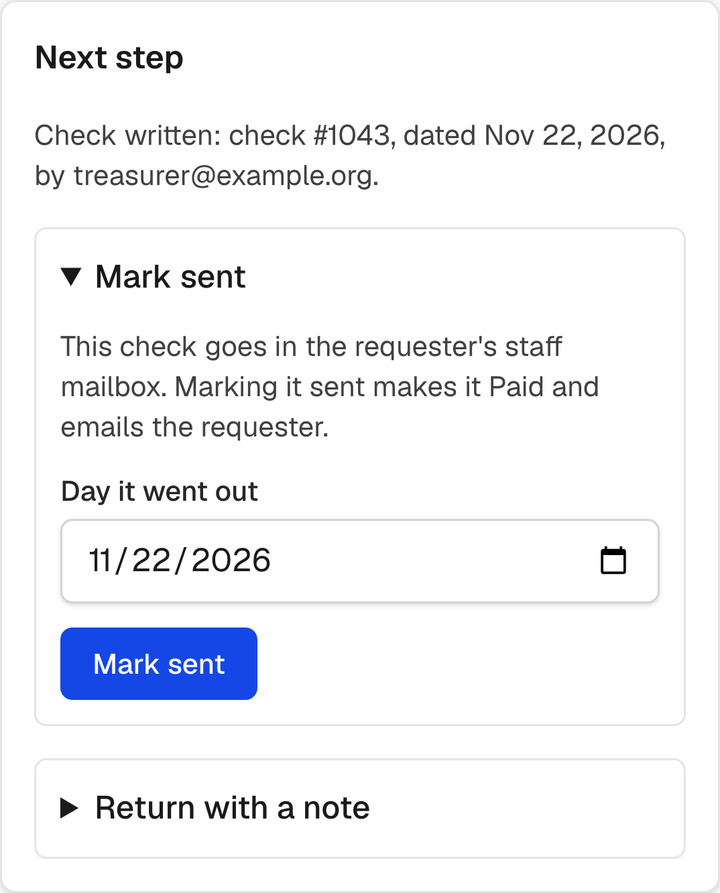
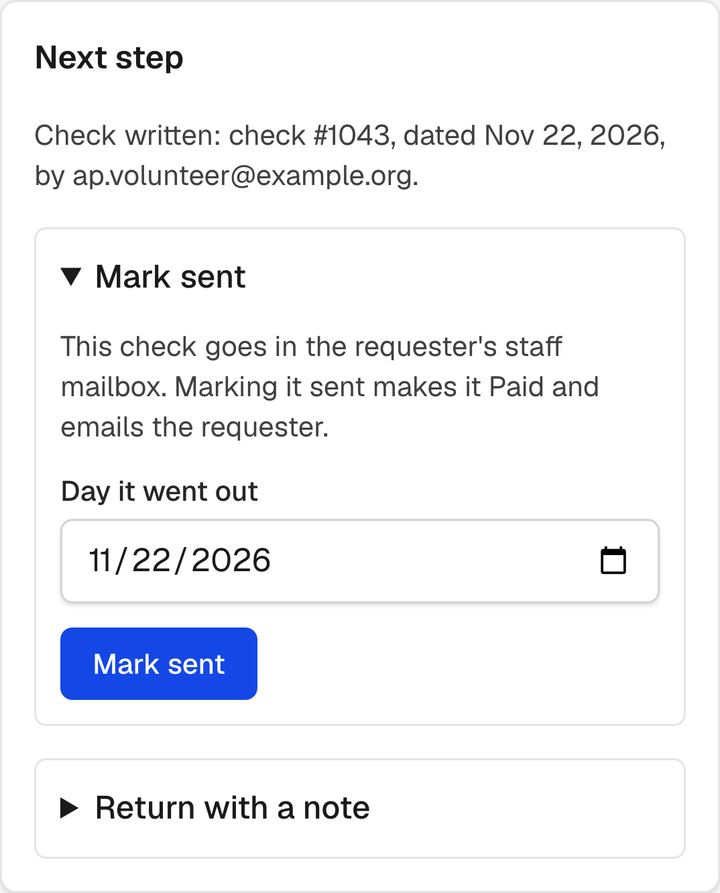
docs: address the no-context review of the AP guide
- Mark sent for a pickup check once it's signed by both and ready, as
  the Paid email ("ready for pickup… reply to arrange") already says;
  the Record form's box and the Mark sent reminder say so too.
- The filters paragraph says to tap Show, names Fiscal year, and that
  Show paid requests too works on With AP; Awaiting signature is under
  Status.
- The PDF to pay from is under Files; earlier versions aren't checked.
- The Sheet-editing answer says what never to change.
- The bill pay section stays when MAILED_CHECKS is off: requests on
  their way still reach AP. The README says how the guides read config.
- "If it hasn't been paid yet, the PTA can send it back"; Payment set
  up is shown as well as Check written, with nothing left to sign.
- Smaller wording fixes: the mailed warning's other cause, Returned
  requests on the list, "Paid today", older requests asked for anew,
  Notes on the page, and History keeping a corrected check number.
- The screenshot script: apShots below shotUntil, an accurate header,
  sign-in waits for a page a signed-in user lands on, and a neutral
  sample AP member (ap.volunteer@example.org) in the examples.

Changed region(s): [[0.0917, 0.1814, 0.5806, 0.2116]]

diff --git a/src/app/help/ap/page.tsx b/src/app/help/ap/page.tsx
@@ -13,8 +13,14 @@ const title = "Paying reimbursements: a guide for the accounts payable team";
 
 export const metadata: Metadata = { title };
 
-/** Whether any mailed checks can reach AP: the check signers and bill pay accounts are set, and mailing isn't switched off. */
-const mailingSetUp = () => config.mailedChecks !== "off" && config.checkSigners.length >= 2 && config.billPayAccounts.length > 0;
+/**
+ * Whether mailed checks can reach AP: the check signers and bill pay accounts
+ * are set. Unlike the requesters' guides (`mailingInGuides`, which wait until
+ * mailing is offered to everyone), this covers the pilot too, and stays on
+ * when MAILED_CHECKS is off, since requests already on their way still reach
+ * AP and still need paying.
+ */
+const mailingSetUp = () => config.checkSigners.length >= 2 && config.billPayAccounts.length > 0;
 
 export default function ApGuidePage() {
   const ap = <MailtoLink email={config.apEmail} />;
@@ -42,21 +48,23 @@ export default function ApGuidePage() {
       <Section title="The list">
         <p>
           It shows what&apos;s with you: every request that isn&apos;t paid yet and isn&apos;t still waiting for its event chair or the check signers. The one
-          that&apos;s waited longest is at the top. Its age counts from when it reached you, when it was sent back, or when its check was written.
+          that&apos;s waited longest is at the top. Its age counts from when it reached you, when it was sent back, or when its check was written. Requests
+          sent back, by you or by a chair or check signer, stay on the list while they wait for the requester.
         </p>
         <Shot src={dashboard} alt="The AP dashboard: filters at the top, then a list of requests, oldest first, each with its amount, status and age" />
         <p>
-          Pick a <strong>Status</strong> or a school year, or search by name, email, what it was for, or request number (like FY27-042). Tick{" "}
-          <strong>Show paid requests too</strong> to include those. <strong>Awaiting signature</strong> lists the checks you&apos;ve written that are waiting for
-          their second signature: the second signer&apos;s to-do list. The link above the list goes straight to it.
+          The list starts on <strong>With AP</strong>. To see something else, pick a <strong>Status</strong> or a <strong>Fiscal year</strong>, or search by
+          name, email, what it was for, or request number (like FY27-042), then tap <strong>Show</strong>. On With AP, tick{" "}
+          <strong>Show paid requests too</strong> to include paid ones. <strong>Awaiting signature</strong>, under Status, lists the checks you&apos;ve written
+          that are waiting for their second signature: the second signer&apos;s to-do list. The link above the list goes straight to it.
         </p>
         <p>
           <strong>Export CSV</strong> downloads whatever the list shows, for the books. It opens cleanly in Excel or Google Sheets.
         </p>
         {mailing && (
           <p>
-            A mailed check shows the address it was signed with. A warning under it means the Sheet says something different: pay only to the address on the
-            signed FO10.
+            A mailed check shows the address it was signed with. A warning under it means the Sheet says something different, or the portal couldn&apos;t check
+            what was signed. Either way, pay only to the address and amount on the signed FO10.
           </p>
         )}
       </Section>
@@ -64,13 +72,14 @@ export default function ApGuidePage() {
       <Section title="One request">
         <p>
           Tap a request to see everything about it: who it&apos;s for, what it was for, how much, the event chair&apos;s and check signers&apos; signatures and
-          notes, and its PDFs. The first button is the one to pay from: the authorized packet for a mailed check, the co-signed one for an event, and otherwise
-          the one the requester signed.
+          notes, and its PDFs. Near the bottom, under <strong>Files</strong>, the first (blue) button is the one to pay from: the authorized packet for a mailed
+          check, the co-signed one for an event, and otherwise the one the requester signed.
         </p>
         <Shot src={request} alt="The top of one request on the dashboard: who it's from, the budget category, and the Next step box with Approve, Record check and Return with a note" />
         <p>
-          The portal checks each PDF against the fingerprint the Sheet recorded when it was signed. If a file doesn&apos;t match, it won&apos;t open it: don&apos;t
-          pay from it, and ask the admin to look. A request signed again after it was sent back also lists its earlier versions, for reference.
+          The portal checks each of those against the fingerprint (its SHA-256) the Sheet recorded when it was signed. If a file doesn&apos;t match, it won&apos;t
+          open it: don&apos;t pay from it, and ask the admin to look. A request signed again after it was sent back also lists its earlier versions, for
+          reference. Those aren&apos;t checked, so never pay from one.
         </p>
         <p>
           <strong>History</strong>, at the bottom, lists everything done on the dashboard, with who did it and when.
@@ -97,15 +106,17 @@ export default function ApGuidePage() {
         <Shot src={recordCheck} alt="The Record check form: the check number, the date on the check, and a box for a check that is already signed by both and sent" wide />
         <p>
           If both signers have already signed it and it&apos;s gone out, tick the box under the date. The request is Paid at once, and the requester gets an
-          email saying where their check is.
+          email saying where their check is. That records it as gone out today. If it went out earlier, leave the box unticked, record the check, then use{" "}
+          <strong>Mark sent</strong> with the right day.
         </p>
       </Section>
 
       <Section title="Mark it sent">
         <p>
-          Once the check has both signatures and has gone in the requester&apos;s staff mailbox, or been picked up, open the request and tap{" "}
-          <strong>Mark sent</strong>. The day starts on today. The request is Paid, and the requester gets an email saying where their check is. Whoever sends
-          the check can do this, so a check signer with the ap role can mark it sent right after signing.
+          Once the check has both signatures and is in the requester&apos;s staff mailbox, or ready for them to pick up, open the request and tap{" "}
+          <strong>Mark sent</strong>. The day starts on today. The request is Paid, and the requester gets an email saying where their check is. For a pickup,
+          the email tells them it&apos;s ready and to reply to arrange a time. Whoever sends the check can do this, so a check signer with the ap role can mark it
+          sent right after signing.
         </p>
         <Shot src={checkWritten} alt="A request whose check is written: the check number and date, the Mark sent box with the day it went out, and Return with a note" wide />
       </Section>
@@ -129,7 +140,8 @@ export default function ApGuidePage() {
       <Section title="Send it back">
         <p>
           If something needs to change, open <strong>Return with a note</strong> and say what. The requester gets your note by email with a link to fix the
-          request and sign it again, and {ap} is copied. The fixed version comes back to you as a new version, with your note, after going through its event chair
+          request and sign it again (or, for a request from before the portal kept a copy to refill, to start a new one; the form tells you which), and {ap}{" "}
+          is copied. The fixed version comes back to you as a new version, with your note, after going through its event chair
           {mailing ? " and the check signers" : ""} again if it had them.
         </p>
         <Shot src={sendBack} alt="Return with a note, open, with a note saying what needs to change" wide />
@@ -151,8 +163,8 @@ export default function ApGuidePage() {
               a: (
                 <>
                   It may still be with its event chair{mailing ? " or the check signers" : ""}: choose{" "}
-                  {mailing ? "Awaiting chair or Awaiting signers" : "Awaiting chair"} under Status, or Everything. Paid ones show when you tick{" "}
-                  <strong>Show paid requests too</strong>.
+                  {mailing ? "Awaiting chair or Awaiting signers" : "Awaiting chair"} under Status, or Everything, then tap <strong>Show</strong>. Paid ones
+                  show when you tick <strong>Show paid requests too</strong> on With AP.
                 </>
               ),
             },
@@ -162,11 +174,11 @@ export default function ApGuidePage() {
             },
             {
               q: "It says the email to the requester didn't go through.",
-              a: "The step itself is done. Let the requester know yourself. The notes column of the request's row in the Sheet says what went wrong.",
+              a: "The step itself is done. Let the requester know yourself. The Notes on the request's page say what went wrong.",
             },
             {
               q: "I recorded the wrong check number.",
-              a: "Fix the check_number cell in the request's row in the Sheet, and say why in its notes. The dashboard reads the Sheet, so it shows the change at once.",
+              a: "Fix the check_number cell in the request's row in the Sheet (for bill pay, it holds the bank's confirmation number), and say why in its notes. The request page shows the new number at once, but its History keeps the one you recorded. If it's already Paid, let the requester know: their email had the old number.",
             },
             {
               q: "A paid request needs fixing.",
@@ -174,7 +186,7 @@ export default function ApGuidePage() {
             },
             {
               q: "Can I change things in the Sheet directly?",
-              a: "Yes; the portal reads it fresh every time. But a status typed into the Sheet emails nobody and leaves no history, so use the dashboard for each step.",
+              a: "To correct something, yes: the portal reads it fresh every time. Say why in the row's notes. Use the dashboard for each step, though: a status typed into the Sheet emails nobody and leaves no history. Never change a request ID, the file ID or SHA-256 cells, or the column headers, and don't change a mailed check's address or amount: the PTA pays from what was signed.",
             },
             {
               q: "Who can use the dashboard?",

diff --git a/src/components/help/Shared.tsx b/src/components/help/Shared.tsx
@@ -170,8 +170,8 @@ export function commonQuestions(exampleId: string) {
       q: "I made a mistake after signing.",
       a: (
         <>
-          Email {ap} with your request number (it looks like {exampleId}) and what needs to change. The PTA will send it back to you, so you can fix it and
-          sign it again.
+          Email {ap} with your request number (it looks like {exampleId}) and what needs to change. If it hasn&apos;t been paid yet, the PTA can send it back
+          to you so you can fix it and sign it again.
         </>
       ),
     },
@@ -181,7 +181,9 @@ export function commonQuestions(exampleId: string) {
         <>
           The PTA has written your check. Every PTA check needs two signatures, so it&apos;s waiting for the second one. You&apos;ll get an email when it goes
           out.
-          {mailingInGuides() ? " For a mailed check, the request page says \"Payment set up\" instead: the PTA has set up the payment with its bank, and you'll get an email once the bank has mailed it." : ""}
+          {mailingInGuides()
+            ? " If your check is being mailed, the request page also says \"Payment set up\": there's no second signature to wait for. The PTA has set up the payment with its bank, and you'll get an email once the bank has mailed it."
+            : ""}
         </>
       ),
     },

diff --git a/src/app/ap/[id]/ActionPanel.tsx b/src/app/ap/[id]/ActionPanel.tsx
@@ -142,7 +142,7 @@ const NOTHING_TO_DO: Partial<Record<RequestRow["status"], string>> = {
 /** The Record form's "already sent" box. */
 const SENT_NOW: Record<ReturnType<typeof paidHow>, string> = {
   mailbox: "Already signed by both and put in the staff mailbox.",
-  pickup: "Already signed by both and picked up.",
+  pickup: "Already signed by both and ready for pickup.",
   mailed: "Already signed by both and mailed.",
   "bill pay": "The bank has already mailed it.",
 };
@@ -150,7 +150,7 @@ const SENT_NOW: Record<ReturnType<typeof paidHow>, string> = {
 /** The Mark sent form's reminder. */
 const WHERE_IT_GOES: Record<ReturnType<typeof paidHow>, string> = {
   mailbox: "This check goes in the requester's staff mailbox.",
-  pickup: "The requester picks this check up from the PTA.",
+  pickup: "The requester picks this check up from the PTA: mark it sent once it's signed by both and ready.",
   mailed: "This check is mailed to the requester.",
   "bill pay": "The bank mails this payment; mark it sent once it has.",
 };

diff --git a/README.md b/README.md
@@ -113,7 +113,7 @@ Receipts never pass through the app server: the server opens an upload session (
 
 ## Help pages
 
-`/help` links to the step-by-step guides, reachable from the sign-in page, the header and the footer: `/help/teachers` and `/help/volunteers` for requesters, `/help/chairs` for event chairs, `/help/signers` for check signers, and `/help/ap` for the accounts payable team, which the AP dashboard also links to. They are ordinary pages in `src/app/help/`, so their wording follows the configuration: the AP address, how long sign-in links last, and whether the signed packet goes to AP or is forwarded by the requester (`SEND_PACKETS_TO`).
+`/help` links to the step-by-step guides, reachable from the sign-in page, the header and the footer: `/help/teachers` and `/help/volunteers` for requesters, `/help/chairs` for event chairs, `/help/signers` for check signers, and `/help/ap` for the accounts payable team, which the AP dashboard also links to. They are ordinary pages in `src/app/help/`, so their wording follows the configuration: the AP address, how long sign-in links last, whether the signed packet goes to AP or is forwarded by the requester (`SEND_PACKETS_TO`), and mailed checks. The requesters' guides describe mailing only once `MAILED_CHECKS` is `everyone`; the AP guide does whenever `CHECK_SIGNERS` and `BILL_PAY_ACCOUNTS` are set, since AP pays the pilot's mailed checks too, and any still on their way after mailing is switched off.
 
 The screenshots in `src/images/help/` are taken from the app itself. After a change to the form or to any page they show, regenerate them:
 
@@ -122,7 +122,7 @@ npx playwright install chromium   # once
 npm run help:screenshots
 ```
 
-The script starts `next dev` on port 3100 with the local adapters and a throwaway data folder (`.data/help-screenshots`, seeded from `examples/local-data`), submits a request as the sample volunteer and the sample teacher on a phone-sized headless Chromium, has the event chair sign the volunteer's, and captures the done and request pages in both `SEND_PACKETS_TO` modes so each guide can show the one in use. Then the sample AP member works through both requests on the dashboard for the AP guide. The preview PDF on the "Check and sign" page is rendered with Quick Look on macOS or `pdftoppm` (poppler) elsewhere; without either, that one screenshot shows an empty frame. Commit the new images with the change that made them necessary.
+The script starts `next dev` on port 3100 with the local adapters and a throwaway data folder (`.data/help-screenshots`, seeded from `examples/local-data`), submits a request as the sample volunteer and the sample teacher on a phone-sized headless Chromium, has the event chair sign the volunteer's, and captures the done and request pages in both `SEND_PACKETS_TO` modes so each guide can show the one in use. Then a sample AP member (`ap.volunteer@example.org`) sets the teacher's category, approves it and records its check, and opens *Return with a note* on the volunteer's, for the AP guide. The preview PDF on the "Check and sign" page is rendered with Quick Look on macOS or `pdftoppm` (poppler) elsewhere; without either, that one screenshot shows an empty frame. Commit the new images with the change that made them necessary.
 
 ## What the MVP decides for you
 
